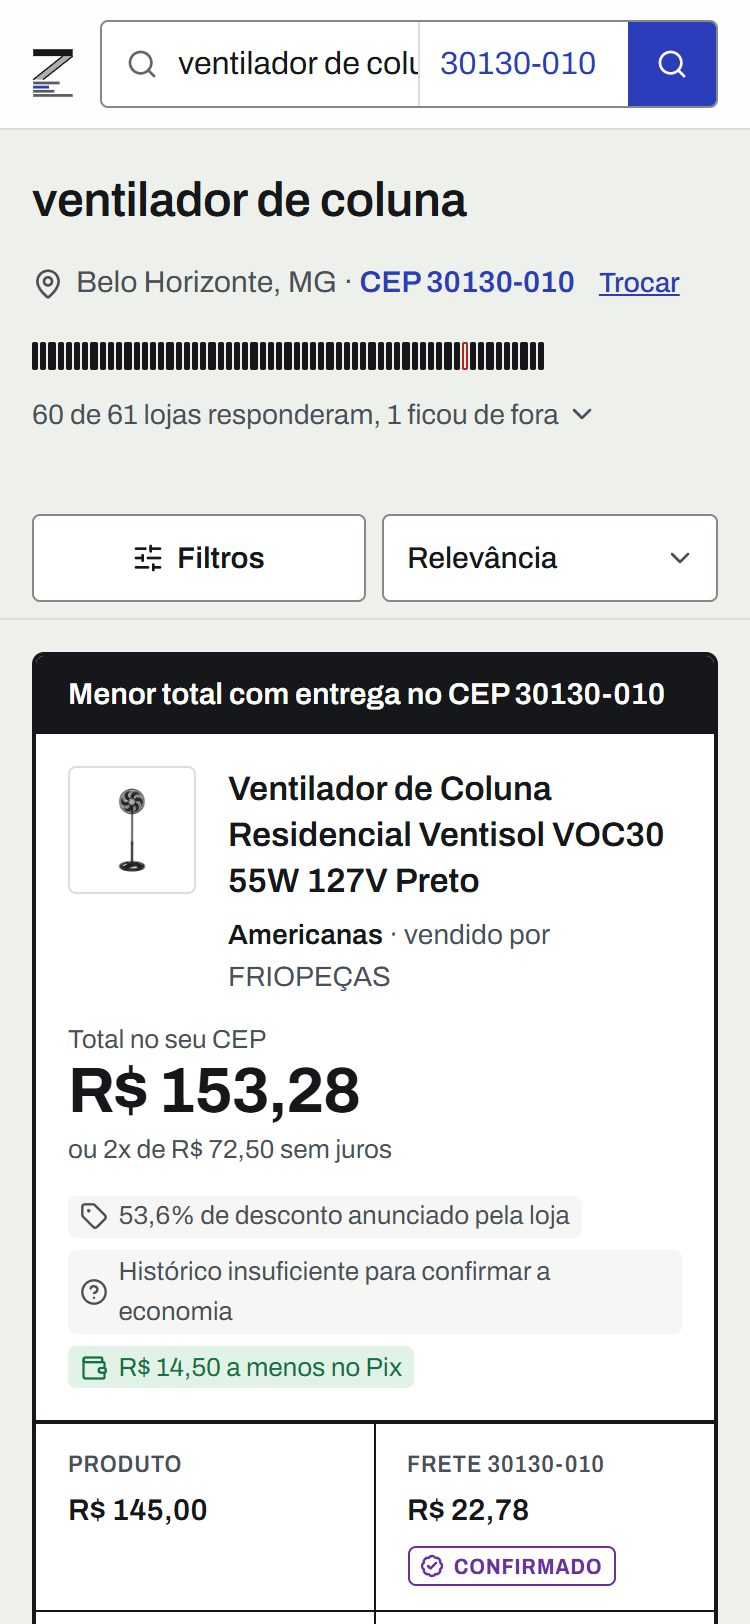
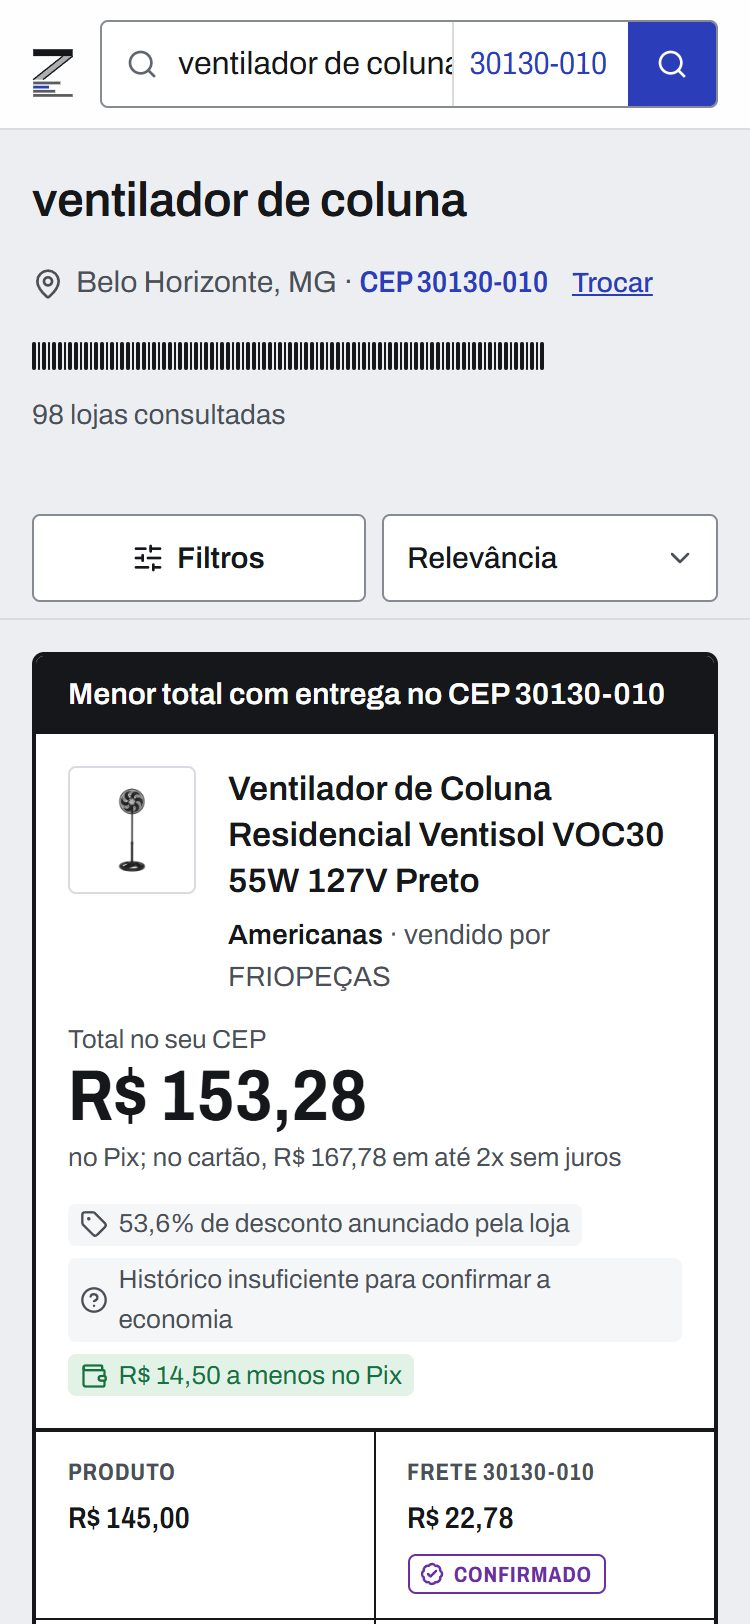
Encaixa a faixa de lojas com mais de 60 lojas e refaz as capturas
Com 98 fontes, os traços de 2 px mais o espaço passavam de 256 px e cobriam o texto ao lado. Cada traço agora pode ter 1 px e a faixa corta o que sobrar. As capturas do README mostravam o parcelamento antigo, que dividia só o produto, e foram refeitas no tema claro com a busca real.

Changed region(s): [[0.0613, 0.6466, 0.9507, 1.0], [0.0307, 0.1539, 0.92, 0.2771], [0.552, 0.0308, 0.7973, 0.0616]]

diff --git a/frontend/src/componentes/status-busca.tsx b/frontend/src/componentes/status-busca.tsx
@@ -48,7 +48,7 @@ export function StatusBusca({
         aria-valuemin={0}
         aria-valuemax={ativas.length || 1}
         aria-valuenow={responderam.length}
-        className="flex h-3.5 w-full max-w-64 items-end gap-px sm:w-64 sm:gap-0.5"
+        className="flex h-3.5 w-full max-w-64 items-end gap-px overflow-hidden sm:w-64"
       >
         {ativas.length
           ? ativas.map((f) => (

diff --git a/frontend/src/app/globals.css b/frontend/src/app/globals.css
@@ -240,7 +240,7 @@
   .traco-loja {
     flex: 1 1 0;
     max-width: 5px;
-    min-width: 2px;
+    min-width: 1px;
     height: 0.875rem;
     border-radius: 1px;
     background: var(--fio);
